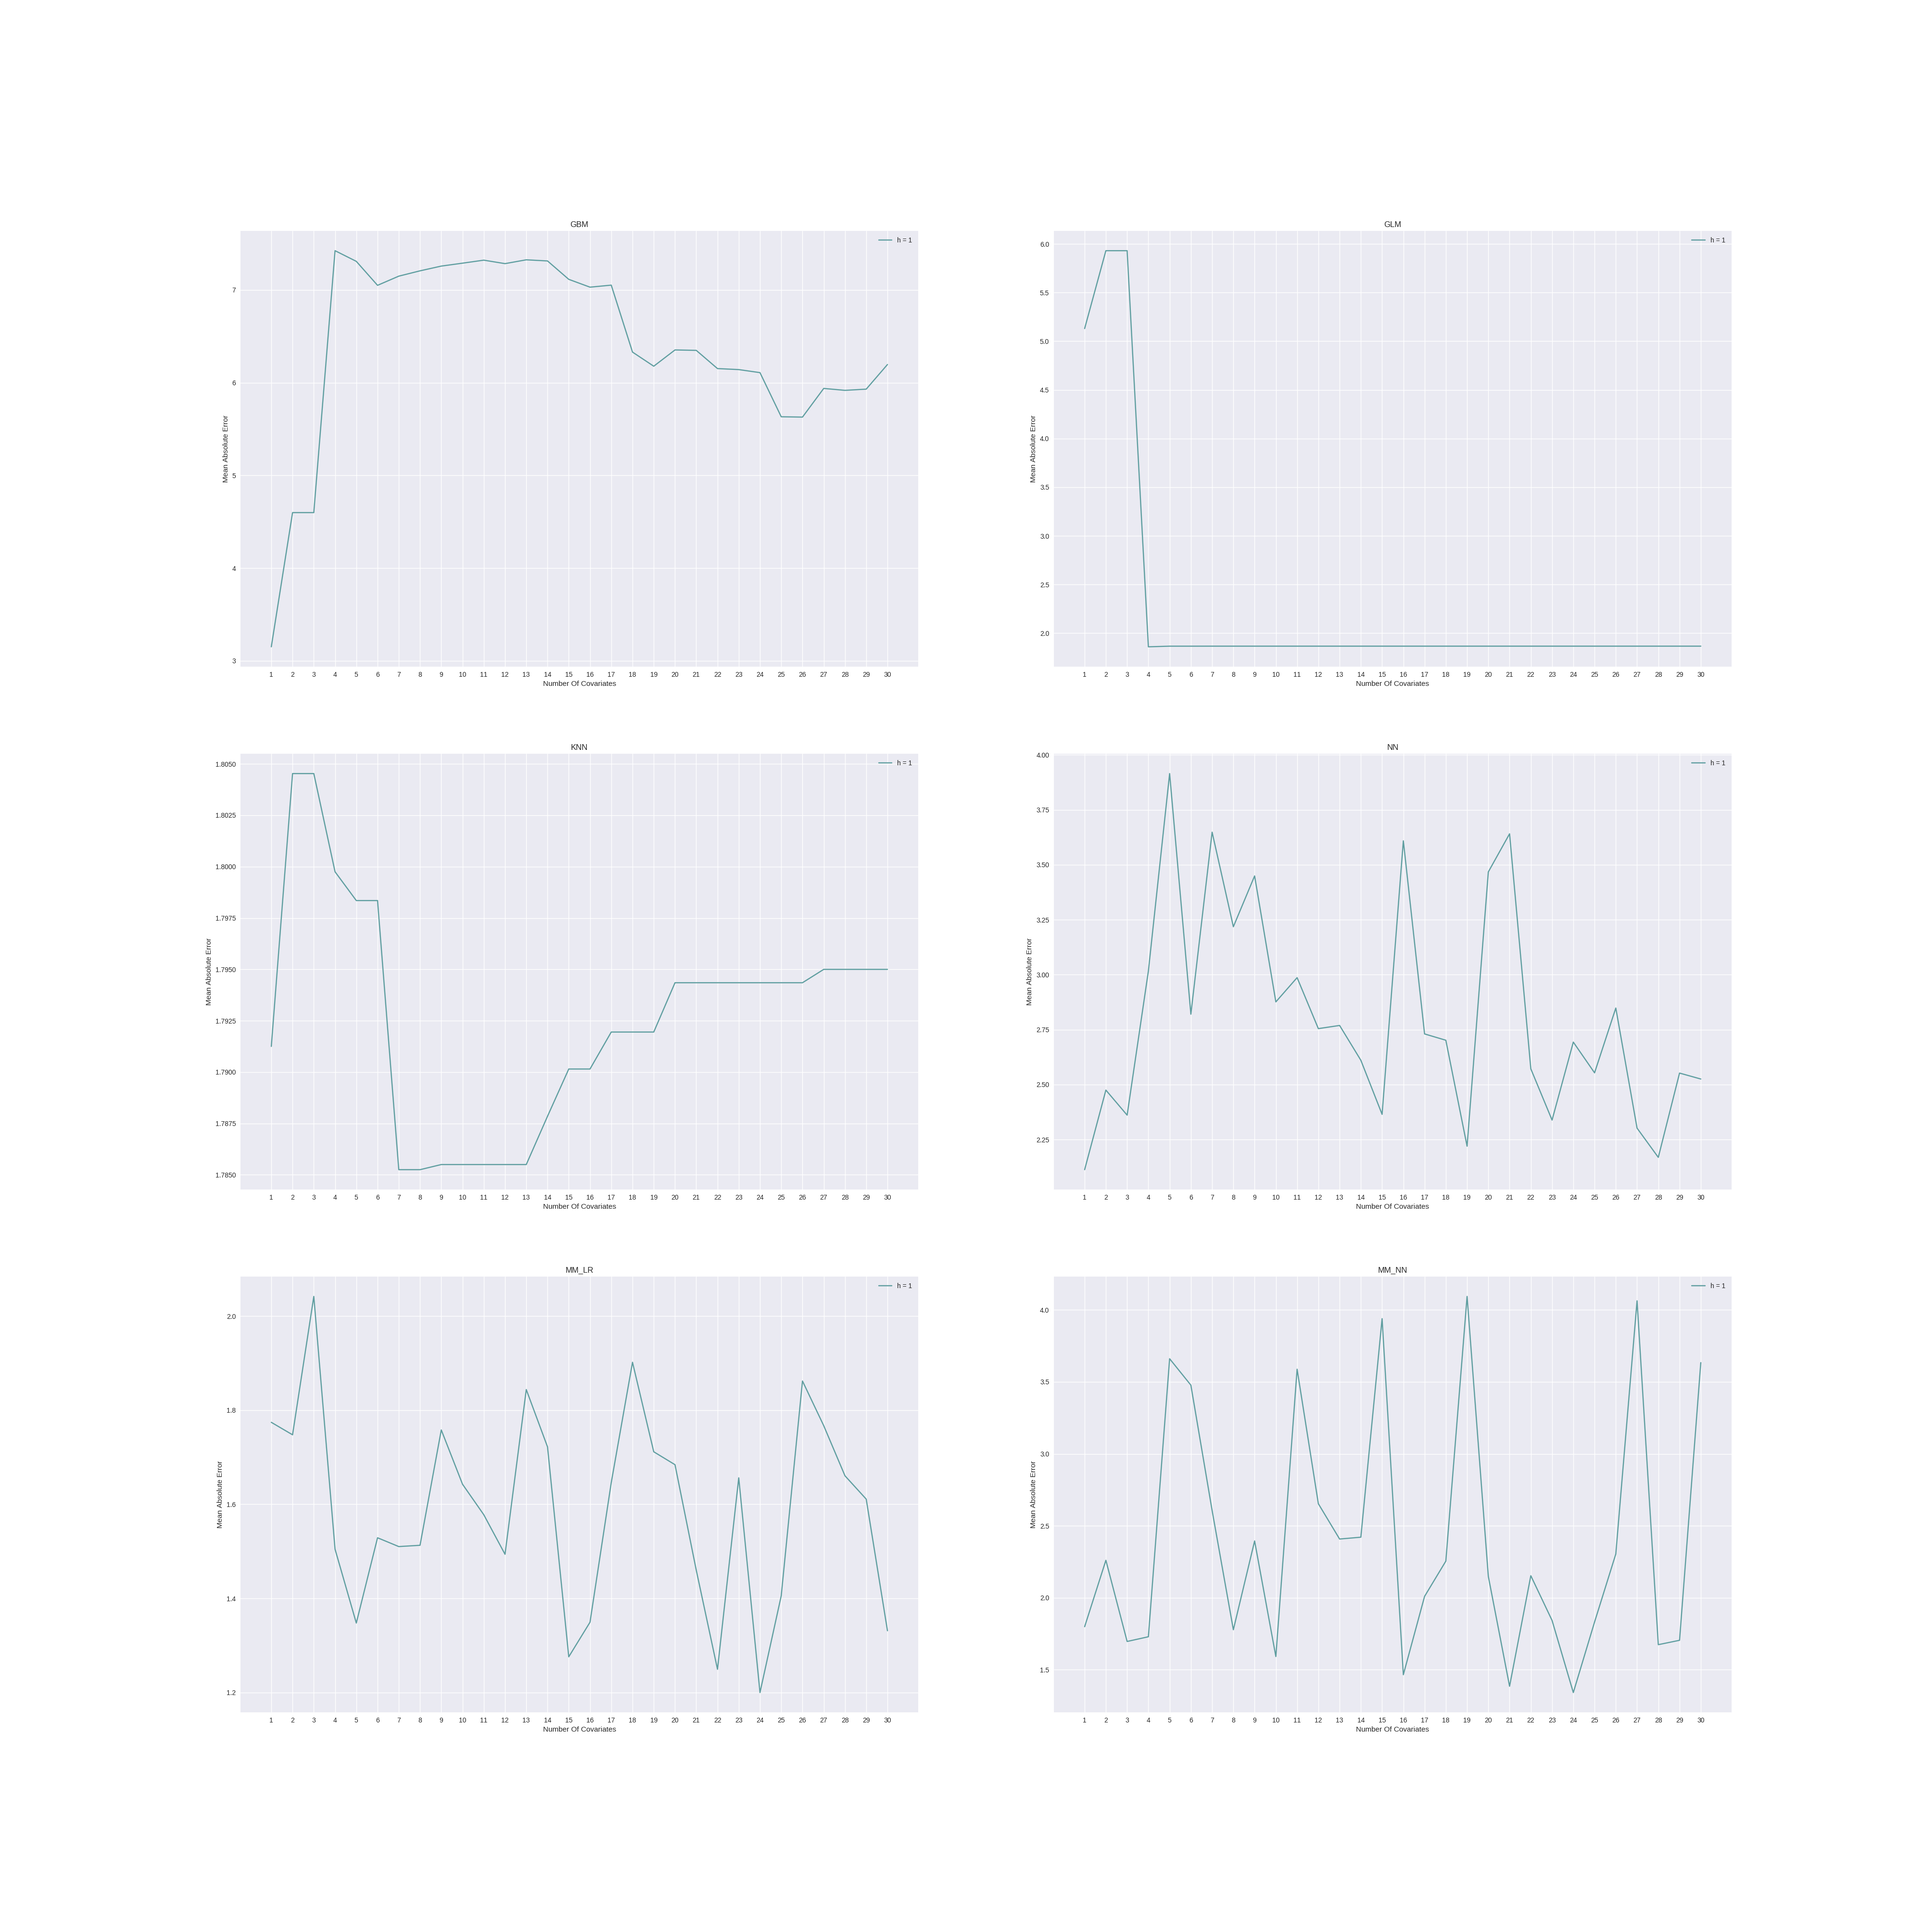
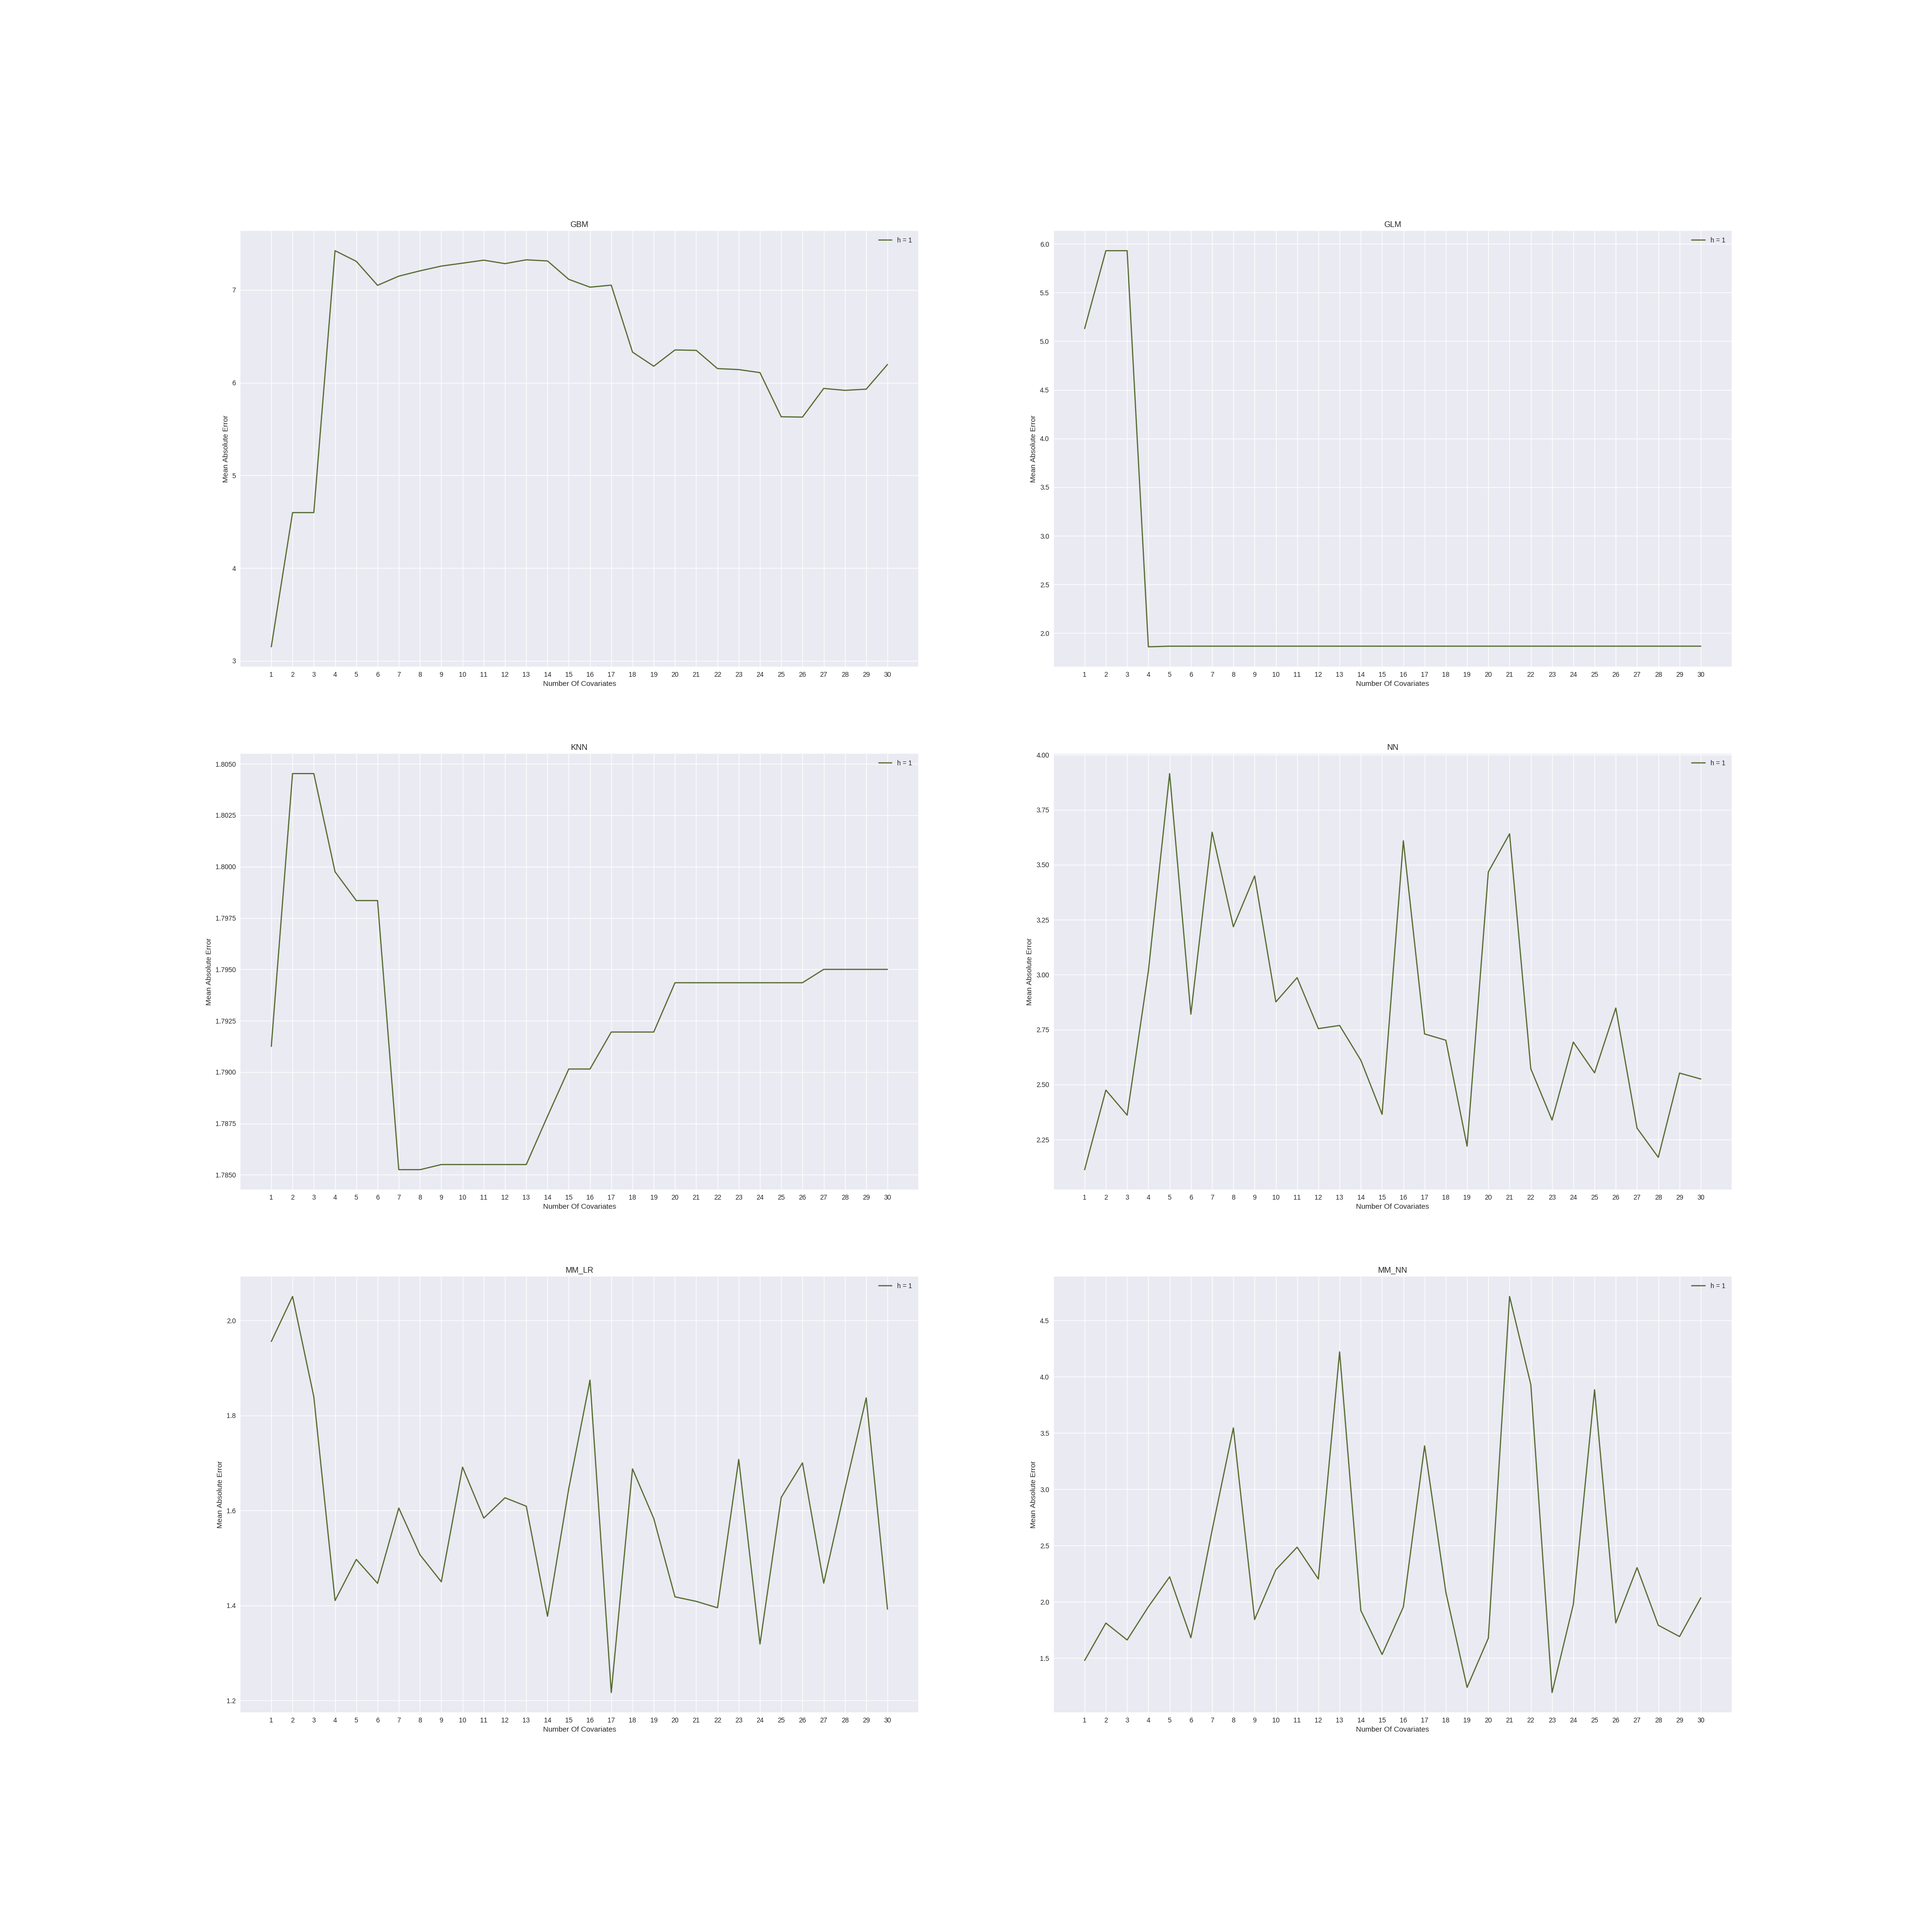
new results added

Changed region(s): [[0.375, 0.7812, 0.4062, 0.8438]]

diff --git a/ML_Models/prediction.py b/ML_Models/prediction.py
@@ -17,7 +17,7 @@ import dill
 import subprocess as cmd
 
 r = 14  # the following day to predict
-numberOfSelectedCounties = 30
+numberOfSelectedCounties = 20
 
 
 ######################################################### split data to train, val, test
@@ -226,11 +226,11 @@ def plot_results(row, col, numberOfCovariates, methods, history, errors, mode):
 
 ########################################################### plot table for final results
 def plot_table(table_data, cols, name):
-    fig = plt.figure(dpi=100)
+    fig = plt.figure(dpi=150)
     ax = fig.add_subplot(1, 1, 1)
     table = ax.table(cellText=table_data, colLabels=cols, loc='center')
     table.set_fontsize(14)
-    table.scale(1, 3)
+    table.scale(1, 5)
     ax.axis('off')
     plt.savefig(test_address + name + '.png')
 
@@ -326,7 +326,7 @@ def main(maxHistory):
                 y_prediction[method][(h, c)] = parallel_outputs['non_mixed'][ind]['output']
                 ind += 1
         # save the entire session for each h and c
-        filename = str(argv[1]) + 'validation.pkl'
+        filename = env_address + 'validation.pkl'
         dill.dump_session(filename)
         # initiate loom for parallel processing
         loom = ProcessLoom(max_runner_cap=len(base_data.columns) * len(mixed_methods) + 5)
@@ -351,7 +351,7 @@ def main(maxHistory):
                 y_prediction[mixed_method][(h, c)] = np.array(parallel_outputs['mixed'][ind]['output']).ravel()
                 ind += 1
         # save the entire session for each h and c
-        filename = str(argv[1]) + 'validation.pkl'
+        filename = env_address + 'validation.pkl'
         dill.dump_session(filename)
         indx_c = 0
         for c in covariates_names:  # iterate through sorted covariates
@@ -378,10 +378,10 @@ def main(maxHistory):
                         historical_y_train[method] = y_train
                         historical_y_test[method] = y_test
         # save the entire session for each h and c
-        filename = str(argv[1]) + 'validation.pkl'
+        filename = env_address + 'validation.pkl'
         dill.dump_session(filename)
     # save the entire session for each h
-    filename = str(argv[1]) + 'validation.pkl'
+    filename = env_address + 'validation.pkl'
     dill.dump_session(filename)
     # plot the results of methods on validation set
     plot_results(3, 2, numberOfCovariates, methods, history, percentage_errors, 'Percentage Of Absolute Error')
@@ -403,8 +403,8 @@ def main(maxHistory):
     for method in none_mixed_methods:
         meanAbsoluteError, rootMeanSquaredError, percentageOfAbsoluteError, adj_r_squared = get_errors(best_h[method],
         best_c[method], method, y_prediction[method], historical_y_test[method])
-        table_data.append([method, best_h[method], best_c[method], rootMeanSquaredError, meanAbsoluteError,
-             percentageOfAbsoluteError, adj_r_squared])
+        table_data.append([method, best_h[method], best_c[method], round(rootMeanSquaredError, 2), round(meanAbsoluteError, 2),
+             round(percentageOfAbsoluteError, 2), round(adj_r_squared, 2)])
         result = pd.DataFrame(historical_y_test[method], columns=['y_test'])
         result['y_prediction'] = y_prediction[method]
         result['absolute_error'] = abs(historical_y_test[method] - y_prediction[method])
@@ -440,21 +440,21 @@ def main(maxHistory):
         y_train_MM_dict[mixed_method] = y_train_MM
         y_test_MM_dict[mixed_method] = y_test_MM
     # save the entire session
-    filename = str(argv[1]) + 'test.pkl'
+    filename = env_address + 'test.pkl'
     dill.dump_session(filename)
     # mixed model with linear regression and neural network
     y_prediction['MM_LR'], y_prediction['MM_NN'] = run_mixed_models(X_train_MM_dict, X_test_MM_dict, y_train_MM_dict, y_test_MM_dict)
     for mixed_method in mixed_methods:
         meanAbsoluteError, rootMeanSquaredError, percentageOfAbsoluteError, adj_r_squared = get_errors(best_h[mixed_method],
         best_c[mixed_method], mixed_method, y_prediction[mixed_method], y_test_MM_dict[mixed_method])
-        table_data.append([mixed_method, best_h[mixed_method], best_c[mixed_method], rootMeanSquaredError,
-             meanAbsoluteError, percentageOfAbsoluteError, adj_r_squared])
+        table_data.append([mixed_method, best_h[mixed_method], best_c[mixed_method], round(rootMeanSquaredError, 2),
+             round(meanAbsoluteError, 2), round(percentageOfAbsoluteError, 2), round(adj_r_squared, 2)])
         result = pd.DataFrame(y_test_MM_dict[mixed_method], columns=['y_test'])
         result['y_prediction'] = y_prediction[mixed_method]
         result['absolute_error'] = abs(y_test_MM_dict[mixed_method] - y_prediction[mixed_method])
         result.to_csv(test_address + mixed_method + '.csv')
     # save the entire session
-    filename = str(argv[1]) + 'test.pkl'
+    filename = env_address + 'test.pkl'
     dill.dump_session(filename)
     table_name = 'mixed methods best results'
     plot_table(table_data, columns_table, table_name)
@@ -464,7 +464,7 @@ def main(maxHistory):
 if __name__ == "__main__":
 
     begin = time.time()
-    maxHistory = 3
+    maxHistory = 1
     # make directories for saving the results
     validation_address = str(argv[1]) + '/results/counties=' + str(numberOfSelectedCounties) + ' max_history=' + str(maxHistory) + '/validation/'
     test_address = str(argv[1]) + '/results/counties=' + str(numberOfSelectedCounties) + ' max_history=' + str(maxHistory) + '/test/'
@@ -472,7 +472,7 @@ if __name__ == "__main__":
         os.makedirs(test_address)
     if not os.path.exists(validation_address):
         os.makedirs(validation_address)
-
+    env_address = str(argv[1]) + '/results/counties=' + str(numberOfSelectedCounties) + ' max_history=' + str(maxHistory) + '/'
     main(maxHistory)
     end = time.time()
 
